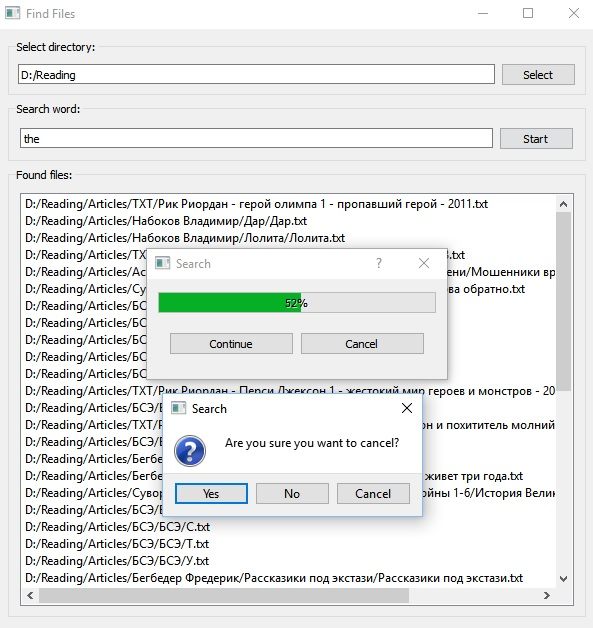
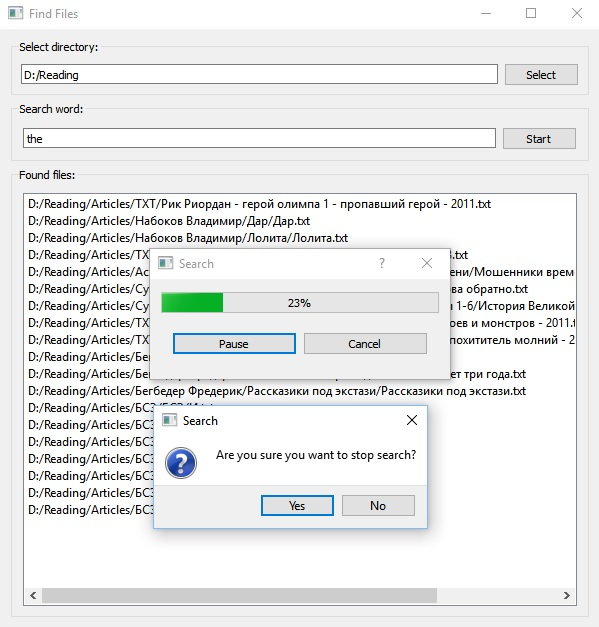
Updated screenshots for Find Files

diff --git a/FindFiles/ProgressWidget.cpp b/FindFiles/ProgressWidget.cpp
@@ -95,7 +95,7 @@ void ProgressWidget::closeEvent(QCloseEvent* event)
     {
         emit paused();
 
-        QMessageBox::StandardButton message = QMessageBox::question(this, "Search", tr("Are you sure you want to cancel?"), QMessageBox::Cancel | QMessageBox::No | QMessageBox::Yes, QMessageBox::Yes);
+        QMessageBox::StandardButton message = QMessageBox::question(this, "Search", tr("Are you sure you want to stop search?"), QMessageBox::No | QMessageBox::Yes, QMessageBox::Yes);
         if (message == QMessageBox::Yes)
         {
             event->accept();
